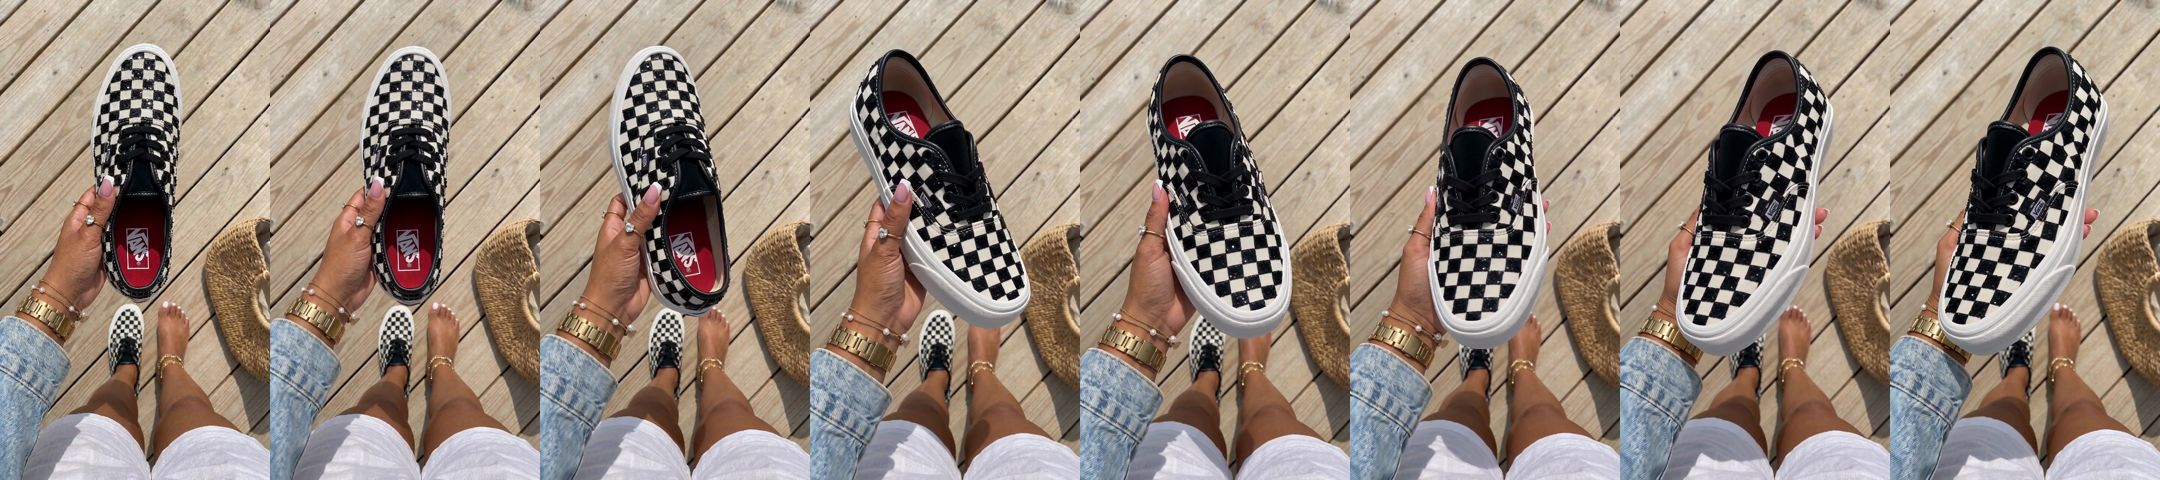
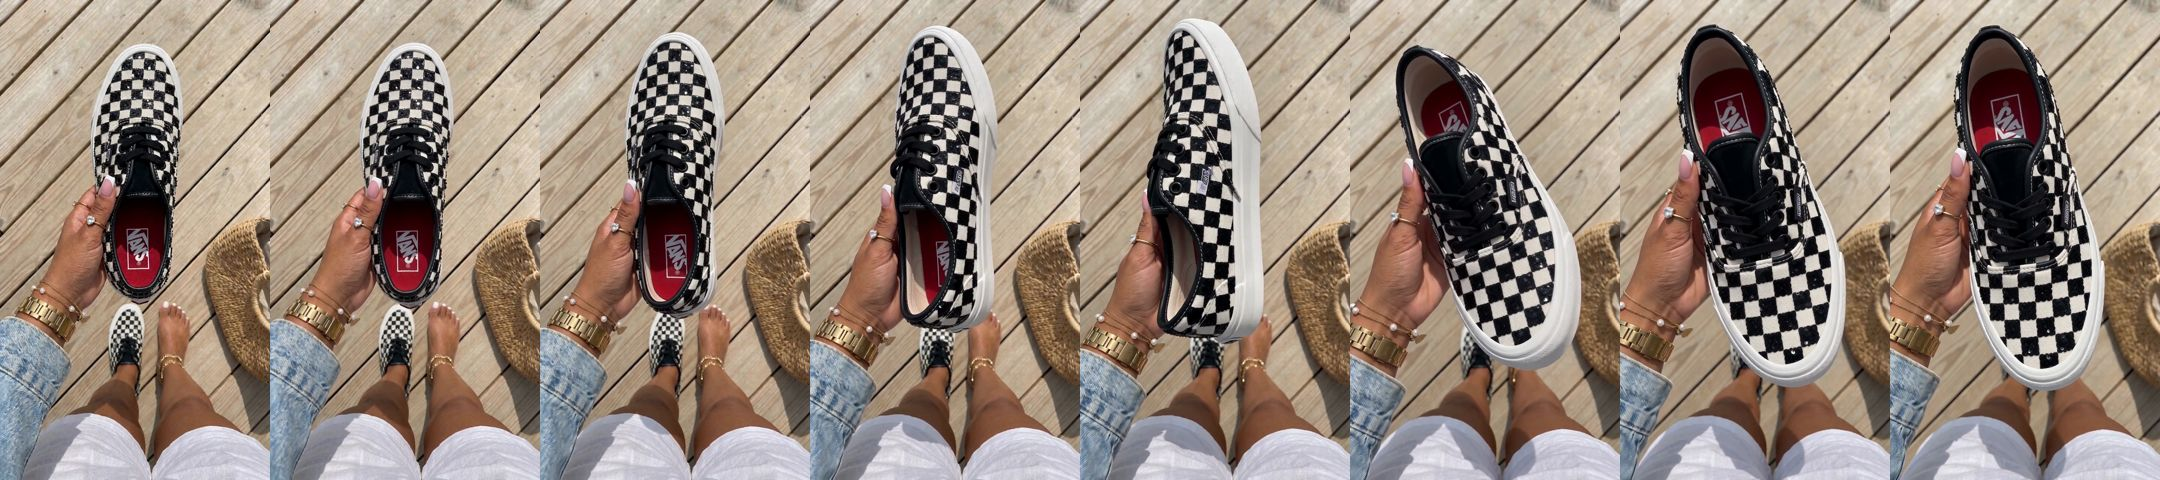
Vans sequin r5: V4S2 redo + cut around its pop; V5/V3 flips trimmed; V7 walk-in-place shot dropped
Claude-Session: https://claude.ai/code/session_01U1tPwSFxNUUFwmLcamztQp

diff --git a/ugc/vans-sequin-authentic/review/index.html b/ugc/vans-sequin-authentic/review/index.html
@@ -40,17 +40,29 @@ td.n{white-space:nowrap}
   </header>
 
   <section class="round">
-    <div><span class="pill">Round 4 · all 10 cuts · waiting on Ralph</span></div>
+    <div><span class="pill">Round 5 · V3, V4, V5, V7 re-cut · waiting on Ralph</span></div>
+    <h2>Your notes on V4, V5 and V7, plus V3</h2>
+    <ul>
+      <li><b>V4:</b> the held shoe jumped in a single frame. I redid that clip for $0.205 and cut just before its own pop at 2.9 s: one smooth turn in her hand, then the deck dolly, then the steady tilted hold. Now 8.2 s.</li>
+      <li><b>V5:</b> dropped the sole shot (the jump to it read as a flip) and the turn at the start of the hold. Now 9.4 s: steady hold, walk, anklet pivot. I measured the walk: the ground really moves, so it isn't in place.</li>
+      <li><b>V7:</b> dropped the walk-in-place shot (the ground moved only about 50 px in 4 s). Now 7.6 s: heel-tab hold, then crossed ankles.</li>
+      <li><b>V3</b> (my catch): its second shot flipped to the sole fast, so it now ends before the flip. 7.3 s.</li>
+    </ul>
+    <p class="meta">The players in Round 4 below now show these new versions too. Kie total $11.84 ($0.205 for the V4 redo).</p>
+  </section>
+
+  <section class="round">
+    <div><span class="pill">Round 4 · all 10 cuts · notes: V4 and V5 flip, V7 walks in place</span></div>
     <h2>The 10 videos, 7 to 14 seconds each</h2>
     <p class="meta">Music-only with a silent track, so Grace adds a trending sound in TikTok. No text. Each video has its own bright grade and the AI finish (grain, sharpness, slightly lower saturation). Every clip in them uses the real VANS tab method. Only the clean part of each clip is used: no grip switch, no extra hands, no product change. Spent on Kie: $11.64 against the $7.73 plan; the $3.91 over is redos.</p>
     <div class="media">
       <figure><video src="finals/V1.mp4" controls playsinline muted loop preload="metadata"></video><figcaption>V1 · ref A · grey sidewalk · 7.2 s</figcaption></figure>
       <figure><video src="finals/V2.mp4" controls playsinline muted loop preload="metadata"></video><figcaption>V2 · ref A · oak bedroom · 7.1 s</figcaption></figure>
-      <figure><video src="finals/V3.mp4" controls playsinline muted loop preload="metadata"></video><figcaption>V3 · ref A · marble café · 9.0 s</figcaption></figure>
-      <figure><video src="finals/V4.mp4" controls playsinline muted loop preload="metadata"></video><figcaption>V4 · ref A · sunny deck · 8.5 s</figcaption></figure>
-      <figure><video src="finals/V5.mp4" controls playsinline muted loop preload="metadata"></video><figcaption>V5 · ref B · asphalt, leggings · 10.6 s</figcaption></figure>
+      <figure><video src="finals/V3.mp4" controls playsinline muted loop preload="metadata"></video><figcaption>V3 · ref A · marble café · 7.3 s (r5)</figcaption></figure>
+      <figure><video src="finals/V4.mp4" controls playsinline muted loop preload="metadata"></video><figcaption>V4 · ref A · sunny deck · 8.2 s (r5)</figcaption></figure>
+      <figure><video src="finals/V5.mp4" controls playsinline muted loop preload="metadata"></video><figcaption>V5 · ref B · asphalt, leggings · 9.4 s (r5)</figcaption></figure>
       <figure><video src="finals/V6.mp4" controls playsinline muted loop preload="metadata"></video><figcaption>V6 · ref B · park path, fall leaves · 13.2 s</figcaption></figure>
-      <figure><video src="finals/V7.mp4" controls playsinline muted loop preload="metadata"></video><figcaption>V7 · ref B · crosswalk · 11.6 s</figcaption></figure>
+      <figure><video src="finals/V7.mp4" controls playsinline muted loop preload="metadata"></video><figcaption>V7 · ref B · crosswalk · 7.6 s (r5)</figcaption></figure>
       <figure><video src="finals/V8.mp4" controls playsinline muted loop preload="metadata"></video><figcaption>V8 · try-on · entryway · 13.6 s</figcaption></figure>
       <figure><video src="finals/V9.mp4" controls playsinline muted loop preload="metadata"></video><figcaption>V9 · gift unboxing · 10.1 s</figcaption></figure>
       <figure><video src="finals/V10.mp4" controls playsinline muted loop preload="metadata"></video><figcaption>V10 · perfect present · 11.1 s</figcaption></figure>

diff --git a/ugc/vans-sequin-authentic/cut.py b/ugc/vans-sequin-authentic/cut.py
@@ -7,11 +7,11 @@ from pathlib import Path
 EDIT = {  # clean windows only (QC 2026-10-21: no grip switch, no extra hands, no product change inside a window)
  "V1": [("V1S1", 0, 3.2), ("V1S2", 0, 4.0)],
  "V2": [("V2S1", 0, 3.6), ("V2S2", 1.5, 5.0)],
- "V3": [("V3S1", 0, 5.0), ("V3S2", 0, 4.0)],
- "V4": [("V4S1", 0, 3.5), ("V4S2", 0, 5.0)],
- "V5": [("V5S1", 1.3, 4.0), ("V5S2", 0, 0.9), ("V5S3", 0.8, 4.2), ("V5S4", 0, 3.6)],
+ "V3": [("V3S1", 0, 5.0), ("V3S2", 0, 2.3)],   # r4: cut before the fast flip to the sole
+ "V4": [("V4S2", 0, 2.875), ("V4S1", 0, 4.0), ("V4S2", 3.5, 4.8)],   # r4 redo: V4S2 pops at 2.917 s (frame 70), dolly between the two clean holds
+ "V5": [("V5S1", 1.6, 4.0), ("V5S3", 0.8, 4.2), ("V5S4", 0, 3.6)],   # Ralph r4: the sole cut read as a flip
  "V6": [("V6S1", 0, 4.6), ("V6S2", 0, 4.0), ("V6S3", 0, 4.6)],
- "V7": [("V7S1", 0, 4.0), ("V7S2", 1.2, 4.0), ("V7S3", 0, 4.8)],
+ "V7": [("V7S2", 1.2, 4.0), ("V7S3", 0, 4.8)],   # Ralph r4: V7S1 walked in place
  "V8": [("V8S1", 0, 5.0), ("V8S2", 0, 4.0), ("V8S3", 0, 4.6)],
  "V9": [("V9S1", 0, 1.4), ("V9S1", 2.6, 3.4), ("V9S2", 0.9, 4.8), ("V9S3", 0, 4.0)],
  "V10": [("V10S1", 0, 4.6), ("V10S2", 0, 4.0), ("V10S3", 0, 2.5)],

diff --git a/ugc/vans-sequin-authentic/README.md b/ugc/vans-sequin-authentic/README.md
@@ -5,7 +5,7 @@ real ref https://www.tiktok.com/t/ZPLAYRQEp) + 2 unboxing / "perfect present" vi
 reference sheet from the product images. Route: ugc-product-ad hands-only, no pasted labels (Gemini 3 Pro stills + product sheet, Seedance 2.0 Mini
 reference mode for hand clips, Kling 3.0 for hand-free if it wins a one-clip test). Rules: grace/PLAYBOOK.md.
 
-Status: Round 4 ALL 10 CUTS on the review page 2026-10-21 (V1-V10, 7.1-13.6 s, music-only, no text), waiting on Ralph. Kie $11.64 vs $7.73 plan (45 images $4.05 + 185 s clips $7.59; over = redos). Next on approval: Drive "Grace Tiktok assets" one product folder (CURRENT -), captions doc.
+Status: Round 5 (V3, V4, V5, V7 re-cut on Ralph's notes: flips + walk-in-place) on the review page 2026-10-21, waiting on Ralph. Kie $11.84 vs $7.73 plan (redos). Next on approval: Drive "Grace Tiktok assets" Vans folder (CURRENT -), captions doc.
 Kie balance $0.93, Kling 248 credits (checked 2026-10-21). Quote: A $5.06 Kie + ~480 Kling credits / B $7.73 Kie. Gate: GATE OK.
 Review page: https://claude.ai/artifact/L6jv2tbQ5AySPMuUiSr9GH
 

diff --git a/ugc/vans-sequin-authentic/REMOVED.md b/ugc/vans-sequin-authentic/REMOVED.md
@@ -11,3 +11,5 @@
 | Extra hands (3-4 hands) | Claude QC | 2026-10-21 | OK: V9S2 used from 0.9 s |
 | Cream insole (V5S2 after the flip) | Claude QC | 2026-10-21 | OK: V5S2 used 0-0.9 s only |
 | On-screen text, product cards | standing rule | 2026-10-04 | OK: none (cut.py draws no text, gate --stage cut OK) |
+| Shoe flipping/jumping while held (V4S2 pop at 2.917 s, V5 cut to the sole, V5S1 start, V3S2 fast flip to the sole) | Ralph (V4, V5); Claude QC (V3) | 2026-10-21 | r5: V4S2 redone + cut around the pop; V5S2 dropped, V5S1 from 1.6 s; V3S2 to 2.3 s |
+| Walking in place (V7S1: ground moved ~50 px in 4 s) | Ralph | 2026-10-21 | r5: V7S1 dropped; V5S3 + V6S1 measured, ground moves (real travel) |
